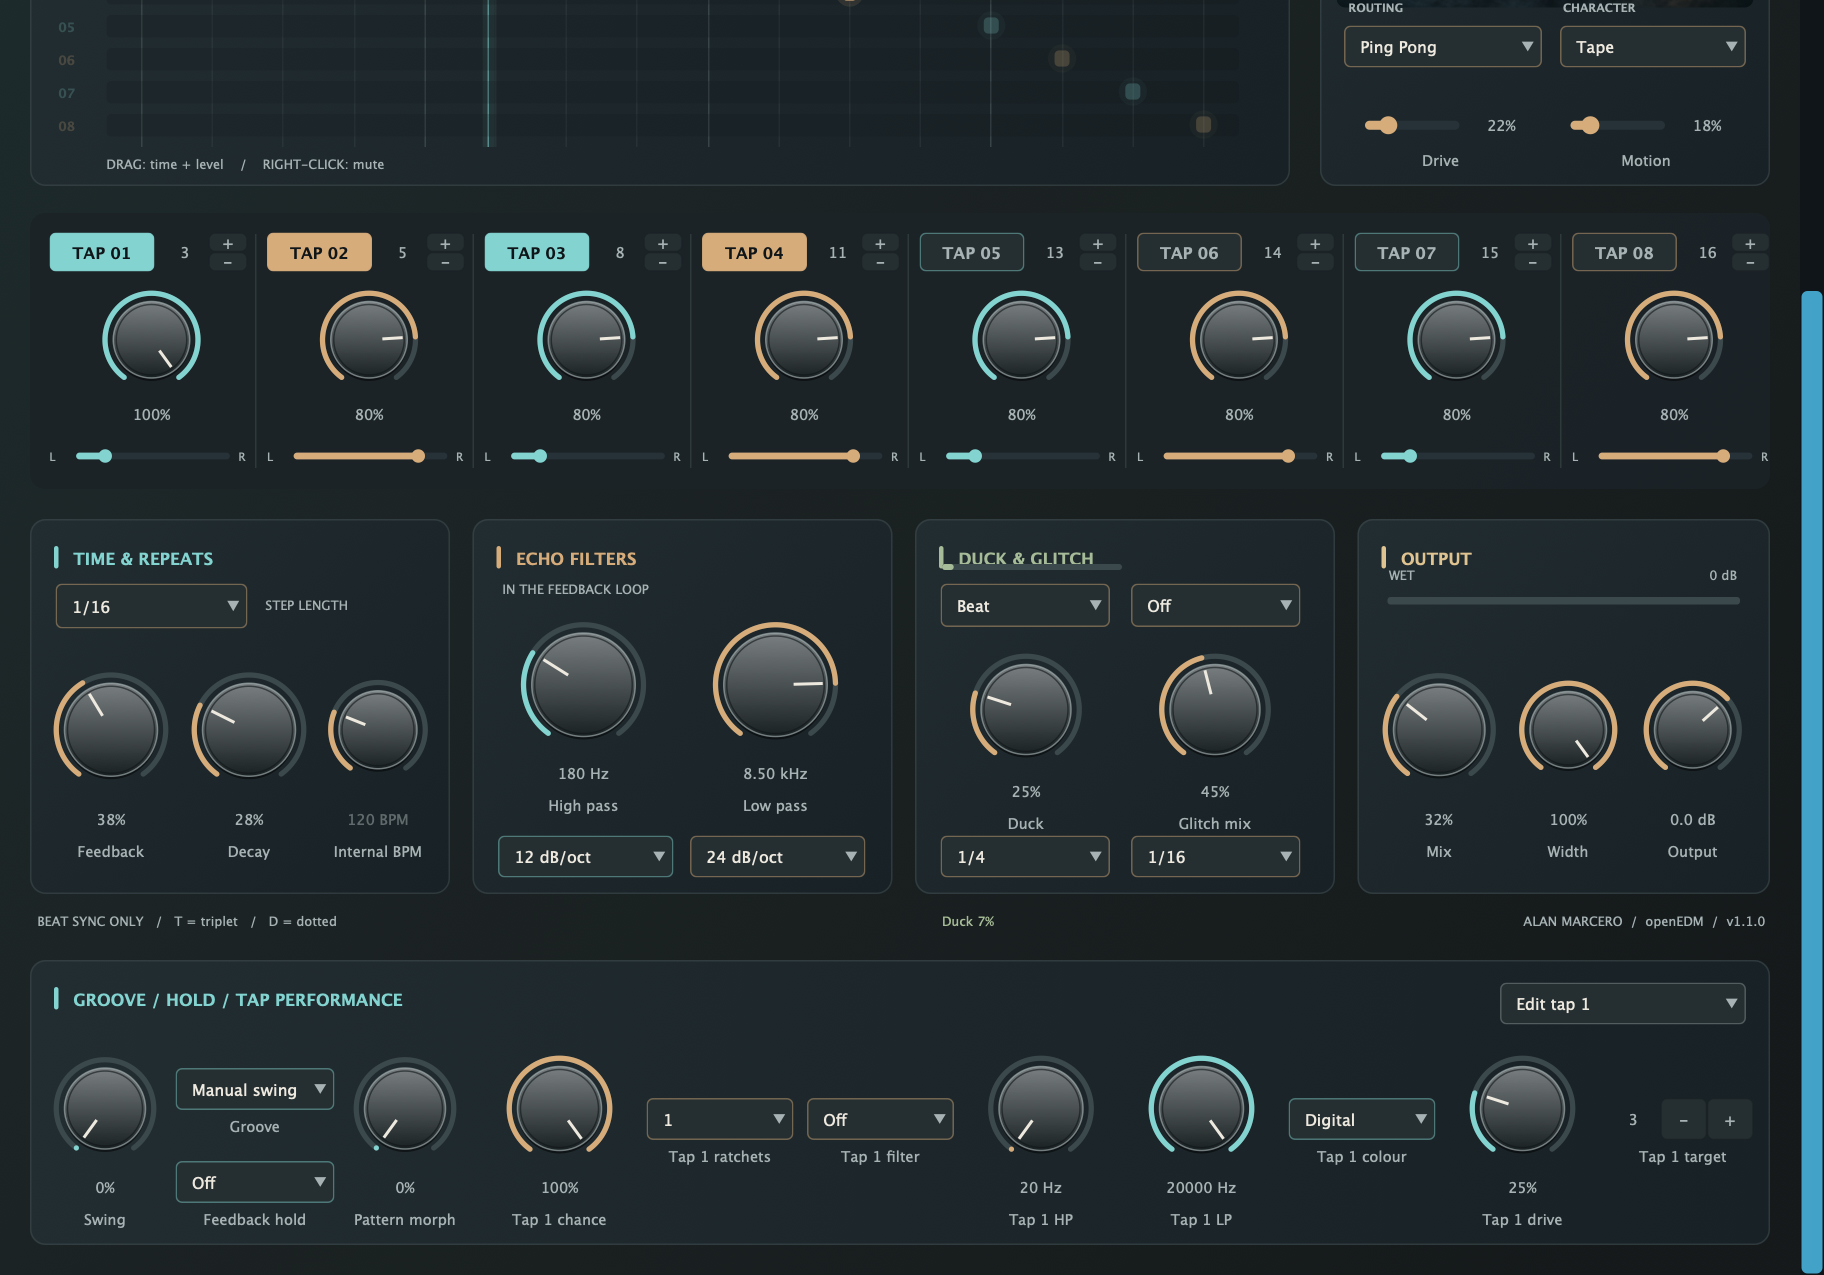
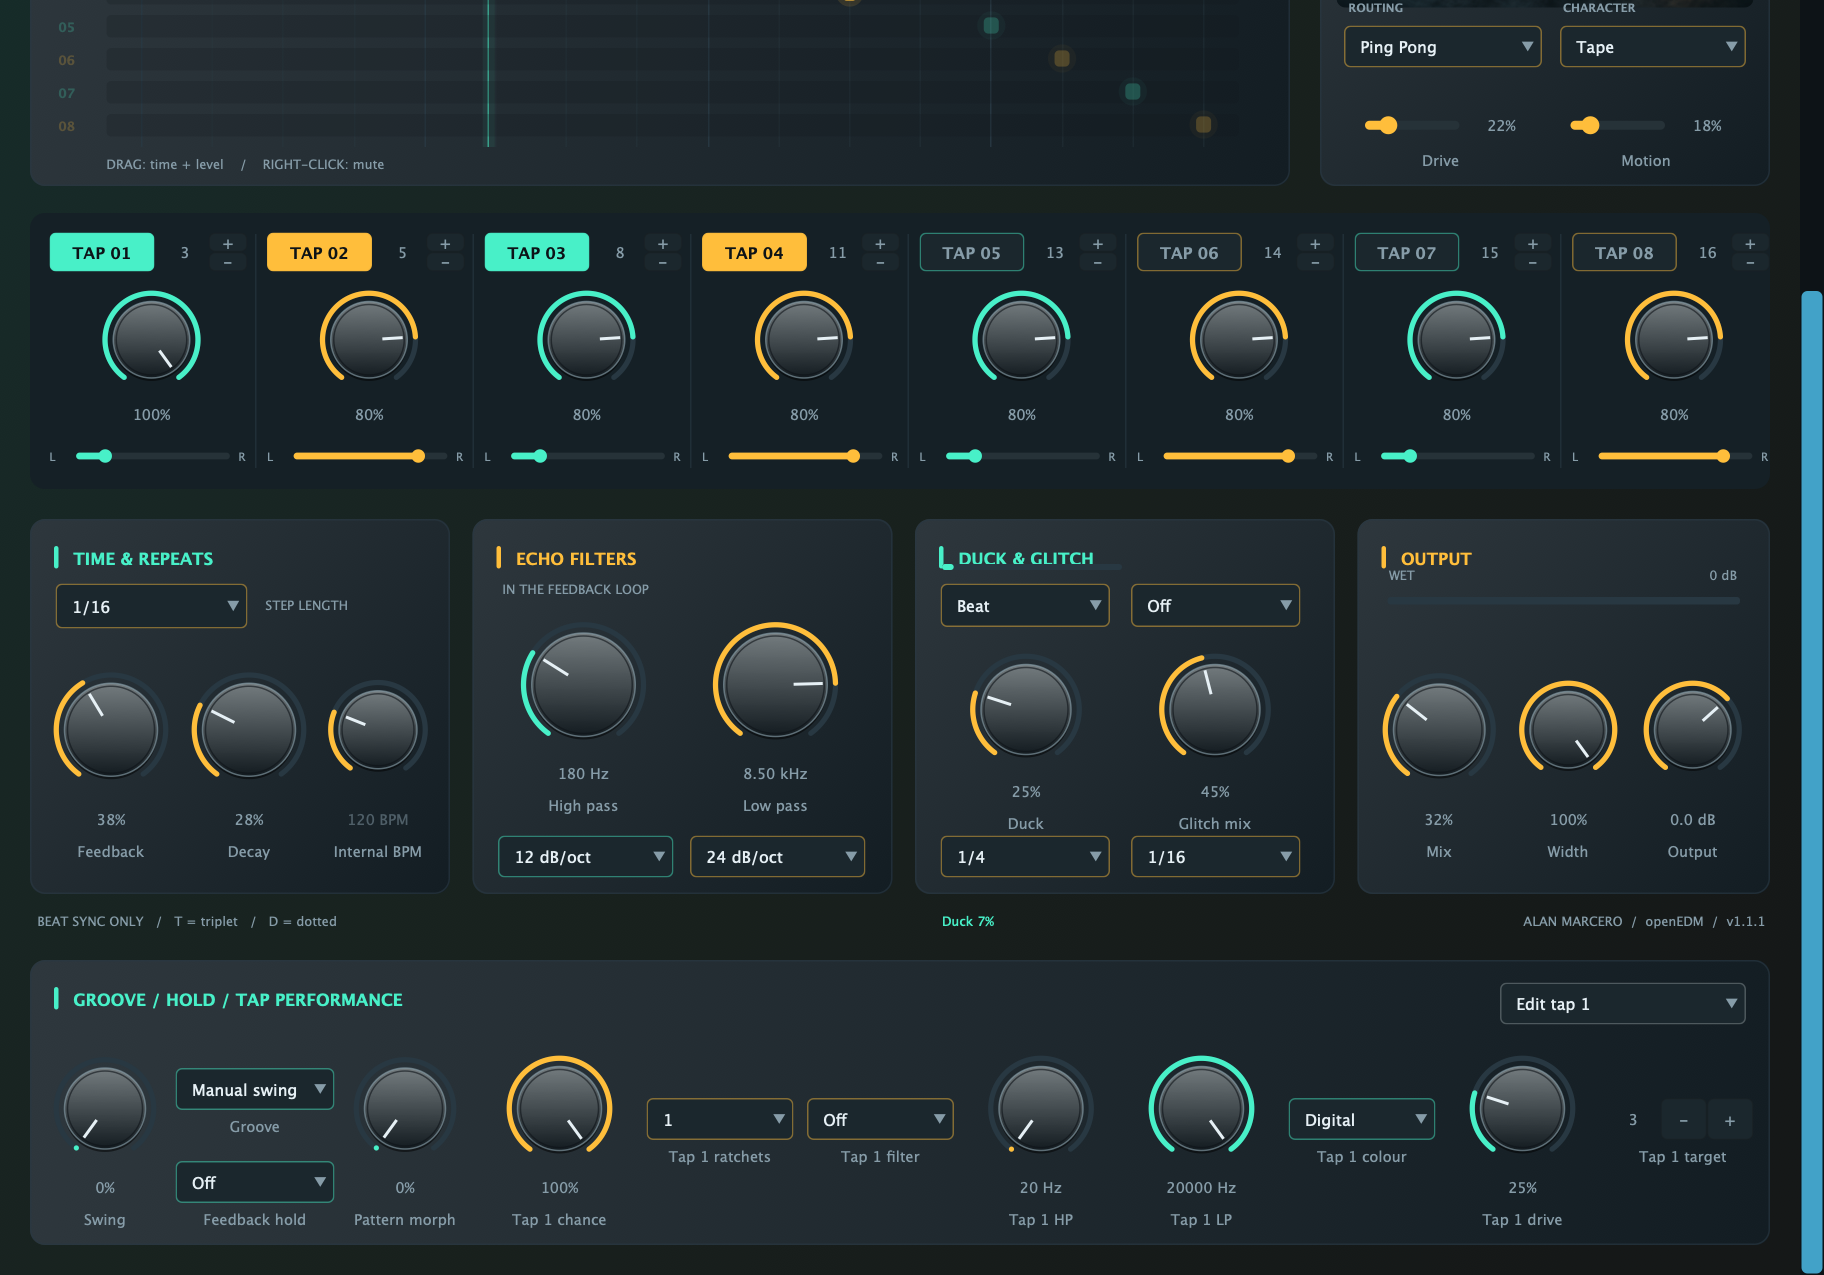
feat: standardize openEDMDelay interface

diff --git a/Source/Plugin/Theme.h b/Source/Plugin/Theme.h
@@ -4,16 +4,16 @@
 
 namespace oed::theme {
 
-inline const juce::Colour kBackground{ 0xff0f1518 };
-inline const juce::Colour kPanel{ 0xf21b2327 };
-inline const juce::Colour kPanelEdge{ 0xff3b474a };
-inline const juce::Colour kKnobBody{ 0xff252f32 };
-inline const juce::Colour kTrack{ 0xff3c494c };
-inline const juce::Colour kText{ 0xffeee9df };
-inline const juce::Colour kTextDim{ 0xffa6b2b4 };
-inline const juce::Colour kAccentA{ 0xff83d4d0 };
-inline const juce::Colour kAccentB{ 0xffd7ac7b };
-inline const juce::Colour kAccentFx{ 0xffa6bb97 };
-inline const juce::Colour kAccentOut{ 0xffdfc390 };
+inline const juce::Colour kBackground{ 0xff0d1317 };
+inline const juce::Colour kPanel{ 0xff152026 };
+inline const juce::Colour kPanelEdge{ 0xff283842 };
+inline const juce::Colour kKnobBody{ 0xff1b272d };
+inline const juce::Colour kTrack{ 0xff283842 };
+inline const juce::Colour kText{ 0xffe6f0f5 };
+inline const juce::Colour kTextDim{ 0xff869ca8 };
+inline const juce::Colour kAccentA{ 0xff48f0c8 };
+inline const juce::Colour kAccentB{ 0xffffbe3b };
+inline const juce::Colour kAccentFx{ 0xff48f0c8 };
+inline const juce::Colour kAccentOut{ 0xffffbe3b };
 
 } // namespace oed::theme

diff --git a/Source/Plugin/PluginEditor.cpp b/Source/Plugin/PluginEditor.cpp
@@ -8,7 +8,7 @@ void text(juce::Graphics& g,const juce::String& value,juce::Rectangle<int> bound
     g.setColour(colour);g.setFont(juce::FontOptions(size,bold?juce::Font::bold:juce::Font::plain));g.drawText(value,bounds,align);
 }
 void panel(juce::Graphics& g,juce::Rectangle<int> area,const juce::String& title,juce::Colour accent) {
-    const auto r=area.toFloat();g.setGradientFill(juce::ColourGradient(juce::Colour(0xff222d31),r.getTopLeft(),juce::Colour(0xff182125),r.getBottomRight(),false));g.fillRoundedRectangle(r,10);
+    const auto r=area.toFloat();g.setGradientFill(juce::ColourGradient(theme::kPanel.brighter(.12f),r.getTopLeft(),theme::kPanel.darker(.08f),r.getBottomRight(),false));g.fillRoundedRectangle(r,10);
     g.setColour(theme::kPanelEdge.withAlpha(.65f));g.drawRoundedRectangle(r.reduced(.5f),10,1);
     g.setColour(accent);g.fillRoundedRectangle(static_cast<float>(area.getX()+16),static_cast<float>(area.getY()+18),3,15,1.5f);
     text(g,title,{area.getX()+29,area.getY()+14,area.getWidth()-40,24},13,accent,true);
